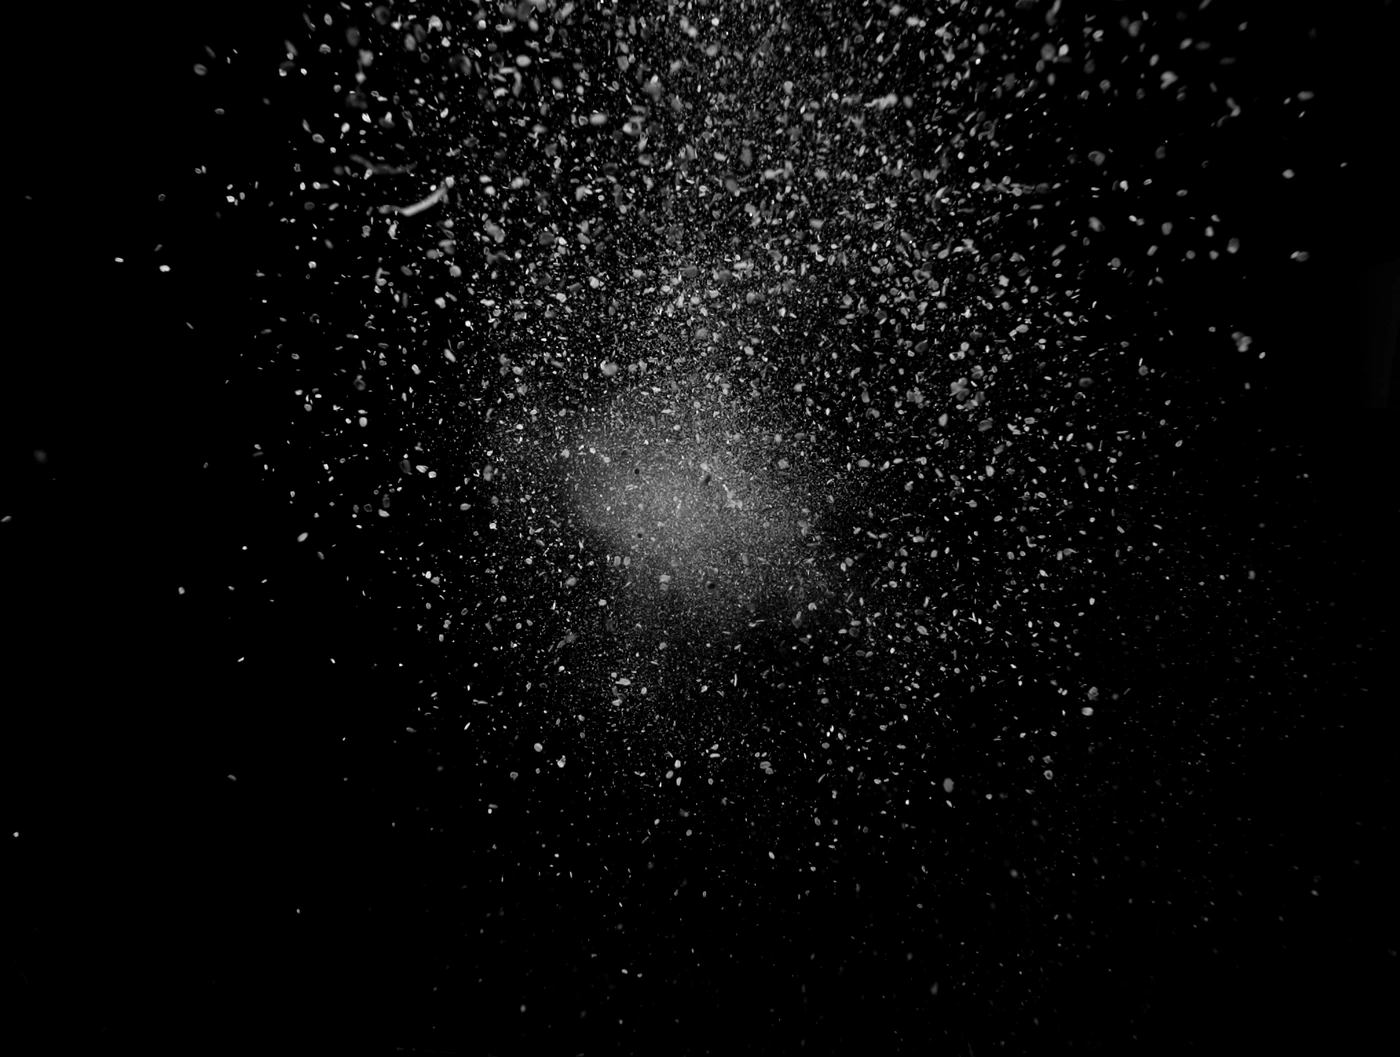
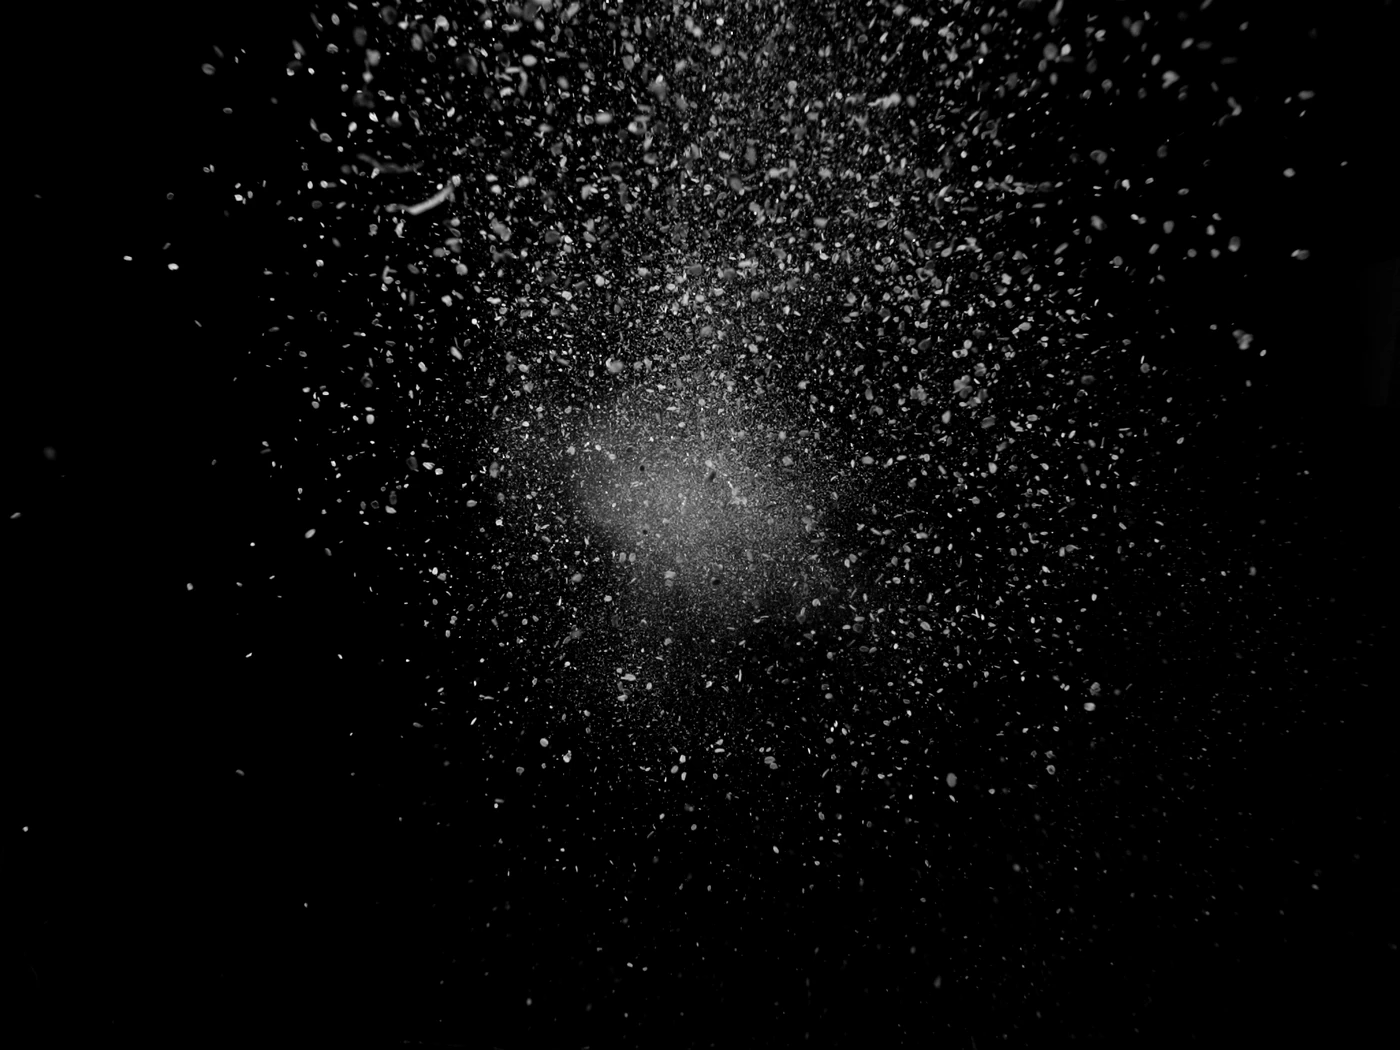
Столкновение: клики без мазков, затемнение края подогнано по кадрам видео студии
Claude-Session: https://claude.ai/code/session_01LFB6om7RWYkPXBoC2AzbhA

diff --git a/src/renderer/designs.js b/src/renderer/designs.js
@@ -136,6 +136,8 @@ function assetName(o) {
 // Где стоят глаза: список { x, y, d } в пикселях листа
 function slotsFor(o, W, H) {
   let list;
+  // свои места (для стенда сравнения): [[x, y, d], …] в тех же долях
+  if (o.slots) return o.slots.map(([x, y, d]) => ({ x: x * W, y: y * H, d: d * H }));
   const kind = o.design === 'halves' || o.count === 1 ? 'single' : o.count === 3 ? 'triangle' : o.place;
   if (o.design === 'infinity') list = L.infinity;
   else if (o.design === 'collision') list = L.collision;
@@ -224,16 +226,11 @@ function loadBrush(i) {
       const c = im.makeCanvas(img.width, img.height), x = c.getContext('2d', { willReadFrequently: true });
       x.drawImage(img, 0, 0);
       const d = x.getImageData(0, 0, c.width, c.height), p = d.data;
-      let sw = 0, sxw = 0, syw = 0;
       for (let j = 0; j < p.length; j += 4) {
         const a = p[j] < 8 ? 0 : Math.min(255, (p[j] - 8) * 1.03);
         p[j + 3] = a; p[j] = p[j + 1] = p[j + 2] = 255;
-        if (a) { const q = j / 4, w = a * a; sw += w; sxw += (q % c.width) * w; syw += Math.floor(q / c.width) * w; }
       }
       x.putImageData(d, 0, 0);
-      // ядро отпечатка (где кисть плотнее всего) — им и попадаем в нужную точку,
-      // как дизайнер ставит кисть плотной частью на край глаза
-      c.coreX = sw ? sxw / sw : c.width / 2; c.coreY = sw ? syw / sw : c.height / 2;
       return c;
     }));
   }
@@ -242,31 +239,43 @@ function loadBrush(i) {
 
 // Клики кистью, всё в единицах листа.
 // dark — кисть 001 по краю; clone — штамп: куда (x, y) и откуда (sx, sy).
-function strokePlan(p, rand) {
+// Клики столкновения, сняты с видео студии (лист 6300×4440, глаз ≈ 2650 px):
+// кисть 001 размером 2048 ≈ 1.54 радиуса, 006 — 1843…2293 ≈ 1.4…1.7 радиуса,
+// 009 — 5000 ≈ 3.8 радиуса. Только клики, без мазков.
+const TUNE = {
+  fall: 0.25,
+  nDark: 22, darkR0: 0.85, darkRj: 0.35, darkSpread: 1.3, darkSize: 1.54,
+  nDust: 5, dustR0: 1.0, dustRj: 0.25, dustSpread: 1.0, dustSize0: 1.39, dustSizeJ: 0.34, back0: 0.35, backJ: 0.25,
+  nCrumb: 2, crR0: 1.1, crRj: 0.4, crSpread: 1.2, crSize: 3.77,
+};
+
+function strokePlan(p, rand, tune) {
+  const T = { ...TUNE, ...(tune || {}) };
   const R = p.d / 2, dark = [], clone = [];
   const at = (ang, r) => [p.x + Math.cos(ang) * r, p.y + Math.sin(ang) * r];
-  const base = p.dir ? Math.atan2(p.dir[1], p.dir[0]) : 0;
-  const around = (i, n) => (p.dir ? base + (rand() - 0.5) * 1.0 : (i / n) * Math.PI * 2 + rand() * 0.6);
-  const nd = p.dir ? 3 : SCATTER.dark;
+  // в видео дизайнер ведёт разлёт к соседу, но чуть книзу: пыль «осыпается».
+  // Направление к соседу доворачиваем вниз листа на T.fall.
+  const base = p.dir ? Math.atan2(p.dir[1] + T.fall, p.dir[0]) : 0;
+  const pick = (i, n, spread) => (p.dir ? base + (rand() - 0.5) * spread : (i / n) * Math.PI * 2 + rand() * 0.6);
+  const nd = p.dir ? T.nDark : SCATTER.dark;
   for (let i = 0; i < nd; i++) {
-    const ang = around(i, nd), [x, y] = at(ang, R * (0.88 + rand() * 0.12));
-    dark.push({ x, y, size: R * (p.dir ? 1.4 + rand() * 0.25 : 0.9 + rand() * 0.2), rot: rand() * 6.3, b: 0, a: 1, n: 3 + (rand() * 3 | 0), t: ang + Math.PI / 2 });
+    const ang = pick(i, nd, T.darkSpread), [x, y] = at(ang, R * (T.darkR0 + rand() * T.darkRj));
+    dark.push({ x, y, size: R * (p.dir ? T.darkSize : 0.9 + rand() * 0.2), rot: 0, b: 0, a: 1 });
   }
-  // штамп: источник смещён внутрь глаза на 0.55–0.9 радиуса
-  const cl = (b, n, rMin, rJit, sMin, sJit) => {
+  // штамп: источник смещён внутрь глаза
+  const cl = (b, n, r0, rj, spread, s0, sj) => {
     for (let i = 0; i < n; i++) {
-      const ang = p.dir ? base + (rand() - 0.5) * 1.1 : (i / n) * Math.PI * 2 + rand() * 0.8;
-      const [x, y] = at(ang, R * (rMin + rand() * rJit));
-      const back = R * (0.55 + rand() * 0.35), ba = ang + (rand() - 0.5) * 0.5;
-      clone.push({ x, y, sx: x - Math.cos(ba) * back, sy: y - Math.sin(ba) * back, size: R * (sMin + rand() * sJit), rot: rand() * 6.3, b, a: 1, n: b === 2 ? 1 : 2 + (rand() * 3 | 0), t: ang + Math.PI / 2 });
+      const ang = pick(i, n, spread), [x, y] = at(ang, R * (r0 + rand() * rj));
+      const back = R * (T.back0 + rand() * T.backJ), ba = ang + (rand() - 0.5) * 0.5;
+      clone.push({ x, y, sx: x - Math.cos(ba) * back, sy: y - Math.sin(ba) * back, size: R * (s0 + rand() * sj), rot: 0, b, a: 1 });
     }
   };
   if (p.dir) {
-    cl(1, 9, 0.85, 0.35, 1.2, 0.4);       // 006 / 007 / 008: пыль
-    cl(2, 2, 1.05, 0.35, 3.2, 0.6);       // 009 на 5000: крошки
+    cl(1, T.nDust, T.dustR0, T.dustRj, T.dustSpread, T.dustSize0, T.dustSizeJ);
+    cl(2, T.nCrumb, T.crR0, T.crRj, T.crSpread, T.crSize, 0);
   } else {
-    cl(1, SCATTER.dust, 1.0, 0.2, 0.8, 0.3);
-    cl(2, SCATTER.crumbs, 1.05, 0.2, 2.2, 0.5);
+    cl(1, SCATTER.dust, 1.0, 0.2, 0, 0.8, 0.3);
+    cl(2, SCATTER.crumbs, 1.05, 0.2, 0, 2.2, 0.5);
   }
   return { dark, clone };
 }
@@ -277,7 +286,7 @@ function stroke(x, brush, st, X, Y, k, rand) {
   const n = st.n || 1, step = st.size * 0.25 * k, t = st.t || 0;
   for (let j = 0; j < n; j++) {
     const o = (j - (n - 1) / 2) * step;
-    stamp(x, brush, X + Math.cos(t) * o, Y + Math.sin(t) * o, st.size * k, st.rot + j * 0.15, st.a, rand() < 0.5);
+    stamp(x, brush, X + Math.cos(t) * o, Y + Math.sin(t) * o, st.size * k, st.rot, st.a, false);
   }
 }
 
@@ -288,7 +297,7 @@ function stamp(x, brush, cx, cy, size, rot, alpha, flip) {
   x.translate(cx, cy);
   x.rotate(rot);
   x.scale(k * (flip ? -1 : 1), k);
-  x.drawImage(brush, -(brush.coreX ?? brush.width / 2), -(brush.coreY ?? brush.height / 2));
+  x.drawImage(brush, -brush.width / 2, -brush.height / 2);
   x.restore();
 }
 
@@ -431,7 +440,7 @@ export async function build(o0, eyes0, W, H, { thumb = false } = {}) {
       opts.cut = { dx: (a.x - p.x) / (p.d / 2), dy: (a.y - p.y) / (p.d / 2), r: a.d / p.d, y: 0 };
     }
     if (o.scatter) {
-      p.plan = strokePlan(p, rand);
+      p.plan = strokePlan(p, rand, o.tune);
     }
     const eyeLayer = {
       name: e.name || `Глаз ${i + 1}`, kind: 'eye', canvas: im.cloneCanvas(e.canvas), adjust: e.adjust && { ...e.adjust },
